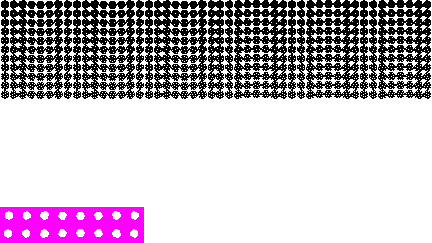
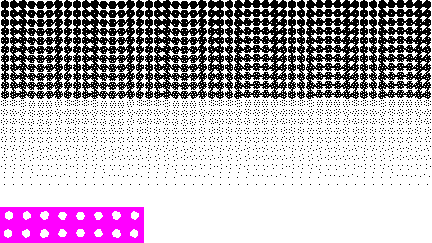
minimap

diff --git a/src/interface.c b/src/interface.c
@@ -73,12 +73,12 @@ void InterfaceInitialize()
     
     s_rules_editor = L"  Порядок установления значений:\n1) \"ИЗ\";\n2) \"В\";\n3) \"УСЛ\";\n4) остальное.\n\n  ФЛАГ:\n\"--\" игнорировать данный набор условий;\n\"+0\" необходимо >= зеленых соседей и < красных;\n\"+1\" необходимо точное (не)совпадение количества соседей.\n\n  Для перехода клетки из начального состояния в конечное необходимо выполнение хотя бы одного из условий в списке.";
     s_toolpad = L"  Кнопки справа налево:\n* Задать курсору следующий по номеру материал;\n* Задать курсору материал \"воздух\";\n* Поменять правое и левое значения курсора местами;\n* Переход в режим передвижения по массиву клеток с помощью ЛКМ.\n\n  Слайдер изменяет размер закрашивания курсором.";
-    s_control_panel = L"  Кнопки справа налево:\n* Пауза;\n* Сделать 1 шаг клеточного автомата (во время паузы);\n* Переключить режим отображения плотности материалов;\n* Переключить режим более подробного отображения миникарты.\n\n  Слайдер изменяет время шага клеточного автомата.";
+    s_control_panel = L"  Кнопки справа налево:\n* Пауза;\n* Сделать 1 шаг клеточного автомата (во время паузы);\n* Переключить режим отображения плотности материалов;\n* Сместить выбираемые миникартой клетки.\n\n  Слайдер изменяет время шага клеточного автомата.";
         
-    info_box.x = 1;
-    info_box.y = 9;
-    info_box.w = 17;
-    info_box.h = 8;
+    info_box.x = 63;
+    info_box.y = 28;
+    info_box.w = 16;
+    info_box.h = 16;
     info_box.s = L"";
     info_box.shift = 0;
     
@@ -803,16 +803,16 @@ void FontUIDraw(Font_t* f, Display_t* d)
     
     FontRulesEditorDraw(f);
     
-    FontStringDraw(f, 64, 28, 15, 15, 
-    L"0 - воздух\n1 - верёвка\n2 - огонь\n3 - вода\n4 - песок\n5 - земля\n6 - пар\n7 - лёд\n8 - камень", 
-    inform_color);
+    // FontStringDraw(f, 64, 28, 15, 15, 
+    // L"0 - воздух\n1 - верёвка\n2 - огонь\n3 - вода\n4 - песок\n5 - земля\n6 - пар\n7 - лёд\n8 - камень", 
+    // inform_color);
     
-    int mat_list_x = 75, mat_list_y = 28;
+    // int mat_list_x = 75, mat_list_y = 28;
     
-    for(int i = 0; i < mat_amount; i++)
-    {
-        HexelDrawOnUI(mat_list_x + 2 * mod(i, 2), mat_list_y + i, i, d->angle, b_ui);
-    }
+    // for(int i = 0; i < mat_amount; i++)
+    // {
+    //     HexelDrawOnUI(mat_list_x + 2 * mod(i, 2), mat_list_y + i, i, d->angle, b_ui);
+    // }
 }
 
 void FontRulesEditorDraw(Font_t* f)
@@ -844,7 +844,7 @@ void FontRulesEditorDraw(Font_t* f)
     FontStringDraw(f, rules_x + hex_x + 11, rules_y + hex_y + 4, 1, 1, L">", inform_color);
     FontStringDraw(f, rules_x + hex_x + 9, rules_y + hex_y + 7, 3, 1, L"УСЛ", inform_color);
     
-    int tree_x = 1, tree_y = 12, list_y = 0, list_h = hmax(rules_editor.h - tree_y + 1, 1);
+    int tree_x = 1, tree_y = 12, list_y = 0, list_h = hmax(rules_editor.h - tree_y - hex_x - 1, 1);
     
     list_y = hmax(rules_editor.cond_num - list_h, 0);
     
@@ -867,8 +867,8 @@ void FontRulesEditorDraw(Font_t* f)
             
     int arrow_y = 
         hmax(
-            hmin( rules_editor.y + rules_editor.h, rules_y + hex_x + tree_y + 
-                rules_editor.cond_num - rules_editor.list_begin),
+            hmin( rules_editor.y + rules_editor.h - 1, rules_y + hex_x + tree_y + 
+                rules_editor.cond_num + 1 - rules_editor.list_begin),
             rules_y + hex_y + tree_y
         );
     FontCharDraw(f, L'>', 

diff --git a/src/hexagons.c b/src/hexagons.c
@@ -15,6 +15,73 @@ int firevolume;
 
 Rules_t *RULES;
 
+void HexagonsInitialize()
+{
+    st8_dns_clr = (int**)malloc(mat_amount * sizeof(int*));
+    for (int i = 0; i < mat_amount; i++)
+	{
+		st8_dns_clr[i] = (int*)malloc(3 * sizeof(int));
+        st8_dns_clr[i][0] = 2;
+        st8_dns_clr[i][1] = 6;
+        st8_dns_clr[i][2] = 7;
+    }
+    {
+        st8_dns_clr[0][0] = 0;
+        st8_dns_clr[0][1] = 0;
+        st8_dns_clr[0][2] = 7;
+        
+        st8_dns_clr[1][0] = 5;
+        st8_dns_clr[1][1] = 2;
+        st8_dns_clr[1][2] = 7;
+        
+        st8_dns_clr[2][0] = 1;
+        st8_dns_clr[2][1] = 1;
+        st8_dns_clr[2][2] = 1;
+        
+        st8_dns_clr[3][0] = 6;
+        st8_dns_clr[3][1] = 4;
+        st8_dns_clr[3][2] = 3;
+        
+        st8_dns_clr[4][0] = 3;
+        st8_dns_clr[4][1] = 5;
+        st8_dns_clr[4][2] = 6;
+        
+        st8_dns_clr[5][0] = 4;
+        st8_dns_clr[5][1] = 5;
+        st8_dns_clr[5][2] = 1;
+        
+        st8_dns_clr[6][0] = 1;
+        st8_dns_clr[6][1] = 1;
+        st8_dns_clr[6][2] = 7;
+        
+        st8_dns_clr[7][0] = 7;
+        st8_dns_clr[7][1] = 3;
+        st8_dns_clr[7][2] = 4;
+        
+        st8_dns_clr[8][0] = 2;
+        st8_dns_clr[8][1] = 5;
+        st8_dns_clr[8][2] = 7;
+    }
+    
+    t = 0;
+
+    RulesInitialize();
+    
+    firevolume = 0;
+}
+
+void HexagonsTerminate()
+{
+    
+    for (int i = 0; i < mat_amount; i++)
+    {
+		free(st8_dns_clr[i]);
+    }
+    free(st8_dns_clr);
+
+    RulesTerminate();
+}
+
 void RulesInitialize()
 {
     RULES = (Rules_t*)
@@ -137,58 +204,8 @@ Kvad_t* KvadInitialize(int width, int height)
 		ptr->arr[i] = (Cell_t*)malloc(width * sizeof(Cell_t));
     }
     
-    st8_dns_clr = (int**)malloc(mat_amount * sizeof(int*));
-    for (int i = 0; i < mat_amount; i++)
-	{
-		st8_dns_clr[i] = (int*)malloc(3 * sizeof(int));
-        st8_dns_clr[i][0] = 2;
-        st8_dns_clr[i][1] = 6;
-        st8_dns_clr[i][2] = 7;
-    }
-    {
-        st8_dns_clr[0][0] = 0;
-        st8_dns_clr[0][1] = 0;
-        st8_dns_clr[0][2] = 7;
-        
-        st8_dns_clr[1][0] = 5;
-        st8_dns_clr[1][1] = 2;
-        st8_dns_clr[1][2] = 2;
-        
-        st8_dns_clr[2][0] = 1;
-        st8_dns_clr[2][1] = 1;
-        st8_dns_clr[2][2] = 1;
-        
-        st8_dns_clr[3][0] = 6;
-        st8_dns_clr[3][1] = 4;
-        st8_dns_clr[3][2] = 3;
-        
-        st8_dns_clr[4][0] = 3;
-        st8_dns_clr[4][1] = 5;
-        st8_dns_clr[4][2] = 6;
-        
-        st8_dns_clr[5][0] = 4;
-        st8_dns_clr[5][1] = 5;
-        st8_dns_clr[5][2] = 1;
-        
-        st8_dns_clr[6][0] = 1;
-        st8_dns_clr[6][1] = 1;
-        st8_dns_clr[6][2] = 7;
-        
-        st8_dns_clr[7][0] = 7;
-        st8_dns_clr[7][1] = 3;
-        st8_dns_clr[7][2] = 4;
-        
-        st8_dns_clr[8][0] = 2;
-        st8_dns_clr[8][1] = 5;
-        st8_dns_clr[8][2] = 7;
-    }
-    KvadZero(ptr);
-    t = 0;
-
-    RulesInitialize();
     
-    firevolume = 0;
-
+    KvadZero(ptr);
     return ptr;
 }
 
@@ -200,14 +217,6 @@ void KvadTerminate(Kvad_t* ptr)
     }
 	free(ptr->arr);
 	free(ptr);
-    
-    for (int i = 0; i < mat_amount; i++)
-    {
-		free(st8_dns_clr[i]);
-    }
-    free(st8_dns_clr);
-
-    RulesTerminate();
 }
 
 void KvadZero(Kvad_t* ptr)
@@ -314,8 +323,6 @@ void KvadSetBlob(Kvad_t* ptr, int z, int n, int value, int rad)
                     KvadSetMat(ptr, z + j, n + i, value);
                     KvadGetHexel(ptr, z + j, n + i)->prs_grav = 0;
                     KvadGetHexel(ptr, z + j, n + i)->prs_dist = 0;
-                    
-                    //KvadGetHexel(ptr, z + j, n + i)->prs_dist = value;
                 }
             }
         }

diff --git a/src/video.c b/src/video.c
@@ -22,6 +22,7 @@ int rgb[8][3] = {
                 {255, 255, 0},  // Yellow
                 {255, 255, 255}  // White
                 };
+int color_cycle[6] = {1, 6, 2, 4, 3, 5};
 SDL_Rect hexel;
 Sprite_t* s1;
 Sprite_t* s2;
@@ -102,6 +103,25 @@ void HexelDraw(Display_t* d, int z, int n, Cell_t* c, int b_ui)
         srcy = c->mat * 9;
         SpriteDraw(s1, srcx, srcy, hexel.x, hexel.y, c->clr);
     }
+}
+
+void DotsDraw(Display_t* d, int z, int n, int amount)
+{
+    hexel.x = d->screen.x + d->screen.w / 2 + d->hshift.w * 1 +
+    (z + d->hshift.x) * hcos(d->angle) + (n + d->hshift.y) * hcos(d->angle + 8);
+    hexel.y = d->screen.y + d->screen.h / 2 + d->hshift.h * 1 +
+    (z + d->hshift.x) * hsin(d->angle) + (n + d->hshift.y) * hsin(d->angle + 8);
+
+    int srcx;
+    int srcy;
+
+    srcx = d->angle * 9;
+    if(amount == 0) srcy = 0;
+    else
+    {
+        srcy = (1 + mod(amount - 1, 21)) * 9;
+    }
+    SpriteDraw(s2, srcx, srcy, hexel.x, hexel.y, 7); // color_cycle[mod( (amount - 1) / 10 + 3, 6)]
 }
 
 void HexelDrawOnUI(int x, int y, int mat, int ang, int b_ui)
@@ -244,7 +264,7 @@ void DisplayScan(Kvad_t* ptr, Display_t* d, int b_ui, int scale_selection)
     }
 
 	int y0, y1, y2, y3;
-	int sclz, scln;
+	int sclz, scln, quantity;
 
 	for (int j = zmin; j <= zmax; j++) {
         if(corner_z[0] == corner_z[3]) y0 = hmin(corner_n[0], corner_n[3]);
@@ -268,11 +288,31 @@ void DisplayScan(Kvad_t* ptr, Display_t* d, int b_ui, int scale_selection)
         nmax = hmin(y2, y3);
 
         for (int i = nmin; i <= nmax; i++) {
-            sclz = (j) * d->scale;
-            scln = (i) * d->scale;
-            sclz += mod((scale_selection), d->scale);
-            scln += mod((scale_selection) / d->scale, d->scale);
-            HexelDraw(d, j, i, KvadGetHexel(ptr, sclz, scln), b_ui);
+            if(d->scale > 1)
+            {
+                quantity = 0;
+                sclz = (j) * d->scale;
+                scln = (i) * d->scale;
+                sclz += mod((scale_selection), d->scale);
+                scln += mod((scale_selection) / d->scale, d->scale);
+                for(int c = 0; c < d->scale; c++)
+                {
+                    for(int v = 0; v < d->scale; v++)
+                    {
+                        if(KvadGetHexel(ptr, sclz + c, scln + v)->mat != 0)
+                        {
+                            quantity++;
+                        }
+                    }
+                }
+                DotsDraw(d, j, i, quantity);
+            }
+            else
+            {
+                sclz = j;
+                scln = i;
+                HexelDraw(d, j, i, KvadGetHexel(ptr, sclz, scln), b_ui);
+            }
 		}
 	}
 }

diff --git a/src/main.c b/src/main.c
@@ -22,6 +22,8 @@ void update_frame(uint64_t* ft, int64_t* dr)
 {
 	InputRegister();
     InputUpdate();
+    
+    //AudioUpdate(k1, b_pause);
 
     DisplayListUpdate();
     ScreenInput(k1, displaylist[0]);
@@ -29,7 +31,6 @@ void update_frame(uint64_t* ft, int64_t* dr)
     ScreenClear();
 
     DisplayListDraw(k1, b_ui);
-    
     
     InterfaceUpdate();
     InterfaceDraw(f1, displaylist[0]);
@@ -75,6 +76,7 @@ int main( int argc, char * argv[] )
     AudioInitialize();
     VideoInitialize();
     InputInitialize();
+    HexagonsInitialize();
 
     k1 = KvadInitialize(side, side);
      DisplayListInitialize();
@@ -93,7 +95,6 @@ int main( int argc, char * argv[] )
 
 		if (dr <= 0) {
 			update_frame(&frame_time, &dr);
-            AudioUpdate(k1, b_pause);
 		}
 
 		calculate_delta(&dr, &ds, cur_time, frame_time, step_time, t_f, t_s);
@@ -104,6 +105,8 @@ int main( int argc, char * argv[] )
     DisplayListTerminate();
     FontTerminate(f1);
     InterfaceTerminate();
+    HexagonsTerminate();
+    InputTerminate();
     VideoTerminate();
     AudioTerminate();
 

diff --git a/src/video.h b/src/video.h
@@ -19,6 +19,8 @@ void ScreenRefresh();
 
 void HexelDraw(Display_t* d, int z, int n, Cell_t* c, int b_ui);
 
+void DotsDraw(Display_t* d, int z, int n, int amount);
+
 void HexelDrawOnUI(int x, int y, int mat, int ang, int b_ui);
 
 void KvadRender(Kvad_t* ptr, Display_t* d, int x, int y, int b_ui);

diff --git a/src/hexagons.h b/src/hexagons.h
@@ -38,6 +38,10 @@ typedef struct
 
 extern Rules_t *RULES;
 
+void HexagonsInitialize();
+
+void HexagonsTerminate();
+
 void RulesInitialize();
 
 void RulesTerminate();
